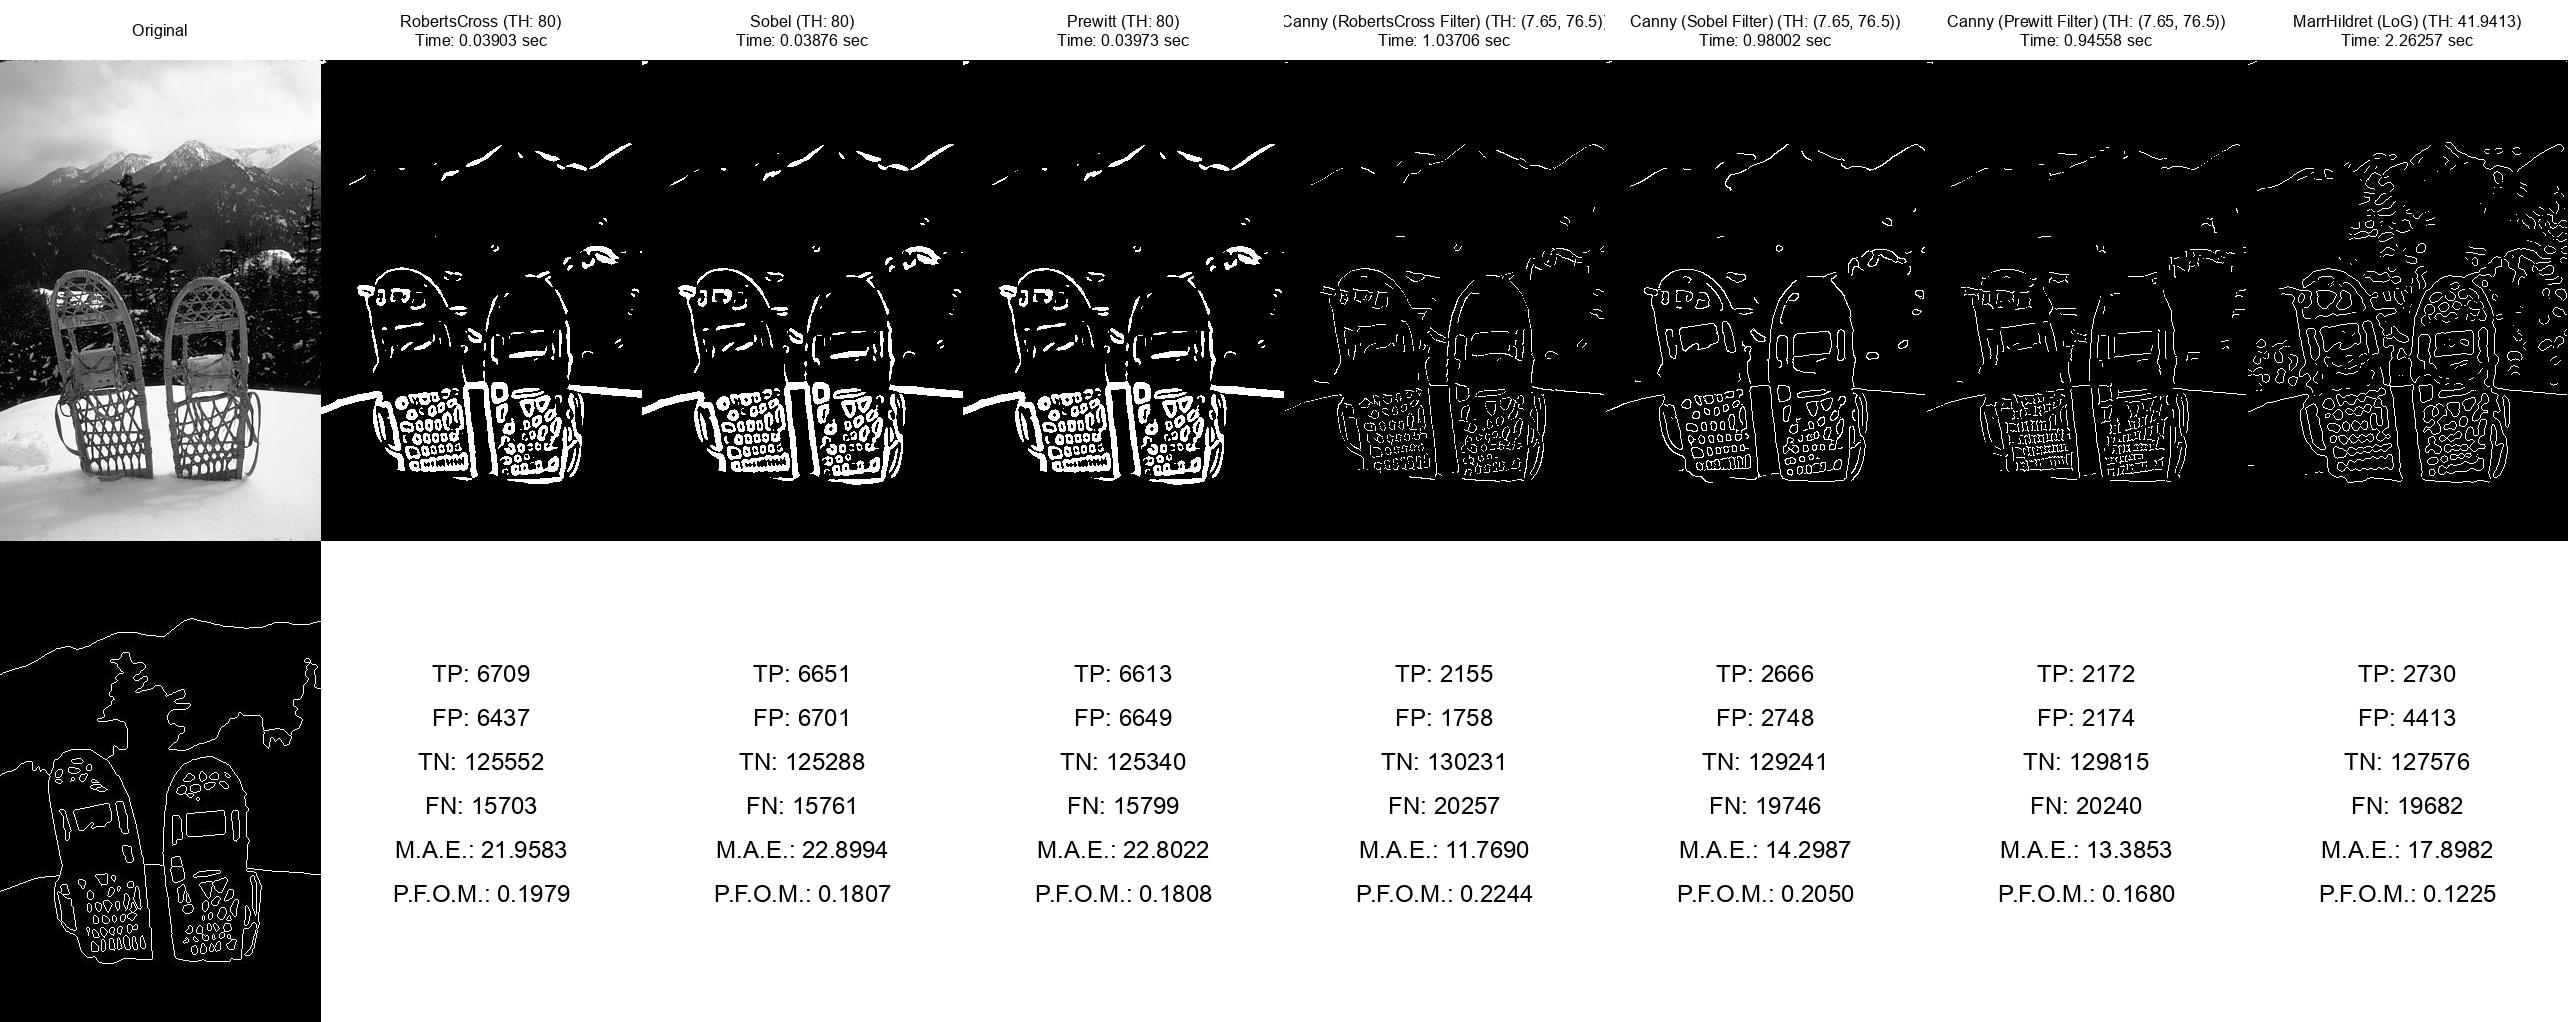
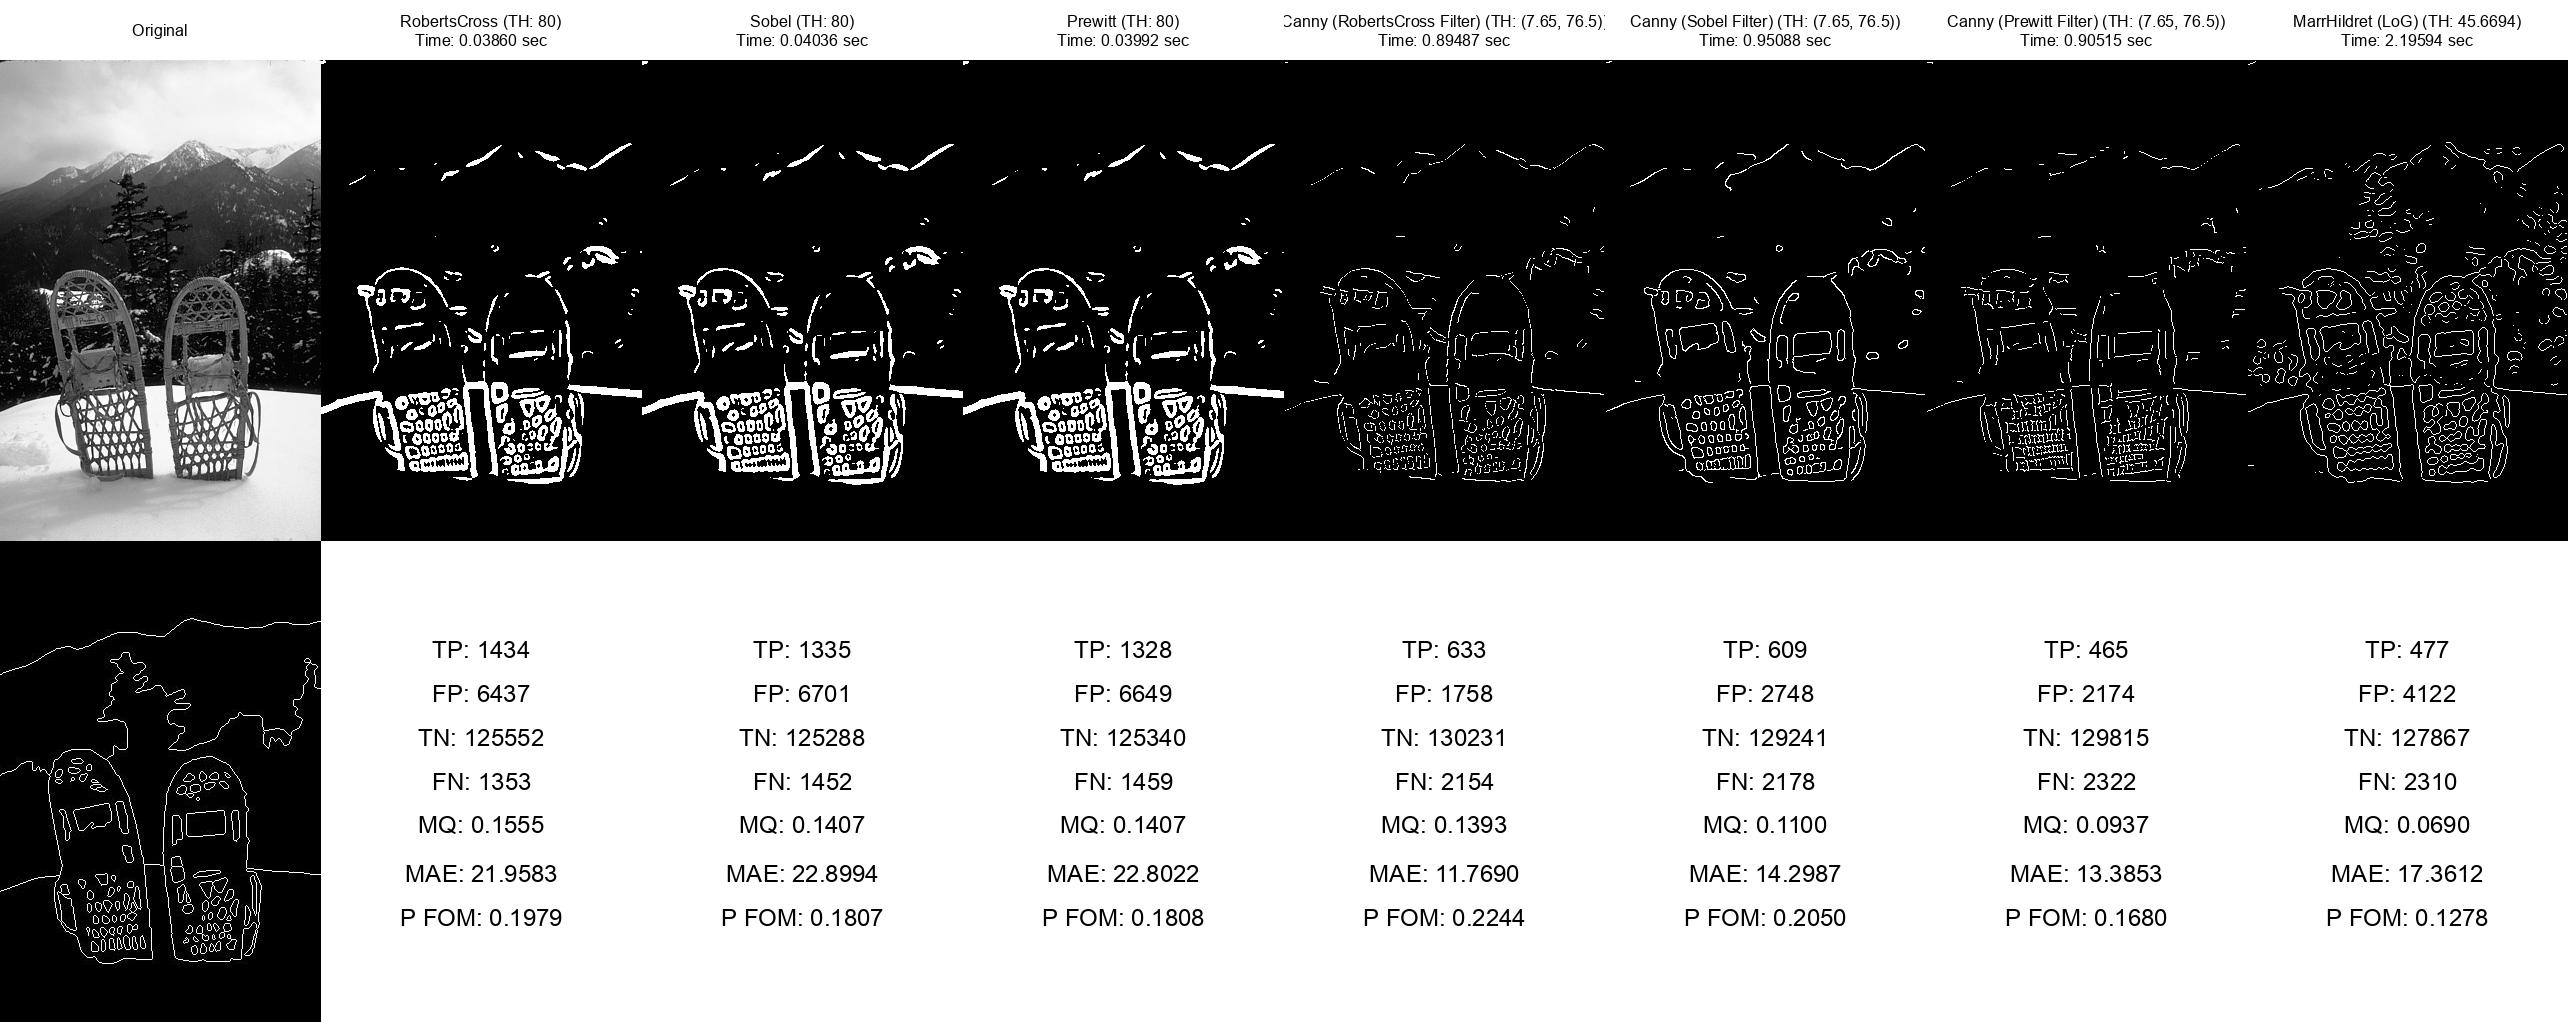
Introduced MapQuality metric

diff --git a/src/ImageUtil.py b/src/ImageUtil.py
@@ -137,7 +137,7 @@ class ImageUtil():
         return dst
 
     @staticmethod
-    def create_result(shape, tp, fp, tn, fn, mae, pfom):
+    def create_result(shape, tp, fp, tn, fn, mq, mae, pfom):
         img = Image.new('L', (shape[0], shape[1]), color='white')
         draw = ImageDraw.Draw(img)
         font = ImageFont.truetype("arial.ttf", 24)
@@ -145,19 +145,22 @@ class ImageUtil():
         fp = "FP: {}".format(fp)
         tn = "TN: {}".format(tn)
         fn = "FN: {}".format(fn)
-        mae = "M.A.E.: {:.4f}".format(mae)
-        pfom = "P.F.O.M.: {:.4f}".format(pfom) 
+        mq = "MQ: {:.4f}".format(mq)
+        mae = "MAE: {:.4f}".format(mae)
+        pfom = "Pratt FOM: {:.4f}".format(pfom) 
         w1, h1 = draw.textsize(tp, font)
         w2, h2 = draw.textsize(fp, font)
         w3, h3 = draw.textsize(tn, font)
         w4, h4 = draw.textsize(fn, font)
+        w5, h5 = draw.textsize(mq, font)
         w6, h6 = draw.textsize(mae, font)
         w7, h7 = draw.textsize(pfom, font)
-        draw.text(((img.width-w1)/2,((img.height-h1)/2)-h1-h2-h3-h4-h6), tp, font = font)
-        draw.text(((img.width-w2)/2,((img.height-h2)/2)+h1-h2-h3-h4-h6), fp, font = font)
-        draw.text(((img.width-w3)/2,((img.height-h3)/2)+h1+h2-h3-h4-h6), tn, font = font)
-        draw.text(((img.width-w4)/2,((img.height-h4)/2)+h1+h2+h3-h4-h6), fn, font = font)
-        draw.text(((img.width-w6)/2,((img.height-h6)/2)+h1+h2+h3+h4-h6), mae, font = font)
-        draw.text(((img.width-w7)/2,((img.height-h7)/2)+h1+h2+h3+h4+h6), pfom, font = font)
+        draw.text(((img.width-w1)/2,((img.height-h1)/2)-h1-h2-h3-h4-h5-h6), tp, font = font)
+        draw.text(((img.width-w2)/2,((img.height-h2)/2)+h1-h2-h3-h4-h5-h6), fp, font = font)
+        draw.text(((img.width-w3)/2,((img.height-h3)/2)+h1+h2-h3-h4-h5-h6), tn, font = font)
+        draw.text(((img.width-w4)/2,((img.height-h4)/2)+h1+h2+h3-h4-h5-h6), fn, font = font)
+        draw.text(((img.width-w5)/2,((img.height-h5)/2)+h1+h2+h3+h4-h5-h6), mq, font = font)
+        draw.text(((img.width-w6)/2,((img.height-h6)/2)+h1+h2+h3+h4+h5-h6), mae, font = font)
+        draw.text(((img.width-w7)/2,((img.height-h7)/2)+h1+h2+h3+h4+h5+h6), pfom, font = font)
         return img
     #########################################################################

diff --git a/src/Benchmark.py b/src/Benchmark.py
@@ -17,6 +17,7 @@ ZERO_CROSS = ["MarrHildret"]
 
 single_threshold = 80
 double_threshold = [0.1, 0.30]
+zeroCrossing_threshold = 0.98
 
 def load_image(filename):
     image = ImageUtil.load_image( directory+filename )
@@ -40,7 +41,7 @@ def main():
         for mask in MULTI_FASE[detector]:
             edgeDetectors.append(edgeDetectorFactoryMulti.get_detector(mask = [detector, mask], threshold = double_threshold))
     for detector in ZERO_CROSS:
-        edgeDetectors.append(edgeDetectorFactoryZero.get_detector(mask = [detector, ImageUtil.get_laplacianOfGaussian(FilterDIM, FilterSIGMA)], threshold = 0.9))
+        edgeDetectors.append(edgeDetectorFactoryZero.get_detector(mask = [detector, ImageUtil.get_laplacianOfGaussian(FilterDIM, FilterSIGMA)], threshold = zeroCrossing_threshold))
 
     for filename in os.listdir(directory):
         if os.path.isdir(directory+filename): 
@@ -60,13 +61,12 @@ def main():
             edges = detector.getEdges(image)
             t = time.time() - t
 
-            tp, fp, tn, fn = MetricsFunction.evaluate(groundTruth, edges)
-            pfom = MetricsFunction.PrattFigureMerit(groundTruth, edges)[0]
+            tp, fp, tn, fn, mq = MetricsFunction.MapQuality(groundTruth, edges)
+            pfom = MetricsFunction.PrattFigureMerit(groundTruth, edges)
             mae = MetricsFunction.MeanAbsoluteError(groundTruth, edges)
-
             images.append(ImageUtil.write_info(edges, detector.getName()+" (TH: {})".format(detector.getThreshold()), blurring_time + t))
             
-            results.append(ImageUtil.create_result(groundTruth.size, tp, fp, tn, fn, mae, pfom))
+            results.append(ImageUtil.create_result(groundTruth.size, tp, fp, tn, fn, mq, mae, pfom))
             
         #write output image with all information
         ImageUtil.create_all(original, images, groundTruth, results, result_dir+filename+extension)   

diff --git a/src/MetricsFunction.py b/src/MetricsFunction.py
@@ -13,10 +13,10 @@ class MetricsFunction():
         if not (N,M) == Ed.shape:
             print('Actual and detected edge image sizes must be same')
             return
-        a = 0.11 # edge shift penalty constant;
+        a = 0.111 # edge shift penalty constant;
         
-        fac = len(np.where((Ea-Ed) == -1)) #False Alarm Count
-        msc = len(np.where((Ea-Ed) == 1))  #Miss Count
+        print(len(np.where((Ea-Ed) == -1))) #False Alarm Count
+        print(len(np.where((Ea-Ed) == 1)))  #Miss Count
 
         Na = sum(sum(Ea))
         Nd = sum(sum(Ed))
@@ -51,7 +51,7 @@ class MetricsFunction():
             F=F+c/(1+a*di^2)
 
         #F = F*100
-        return [F, fac, msc]
+        return F
 
 
     @staticmethod
@@ -67,15 +67,20 @@ class MetricsFunction():
             for y in range(edges.size[1]):
                 e = edges.getpixel((x,y))
                 g = groundTruth.getpixel((x,y))
-                if e == max_e and g > 0:
+                if e == max_e and g == max_g:
                     TP += 1
                 elif e == max_e and g == 0:
                     FP += 1
                 elif e == 0 and g == 0:
                     TN += 1
-                elif e == 0 and g > 0 :
+                elif e == 0 and g == max_g :
                     FN += 1
         return TP, FP, TN, FN
+
+    @staticmethod
+    def MapQuality(groundTruth, edges):
+        tp, fp, tn, fn = MetricsFunction.evaluate(groundTruth, edges)
+        return tp, fp, tn, fn, tp/(tp+fn+fp)
 
     @staticmethod
     def MeanAbsoluteError(groundTruth, edges):
